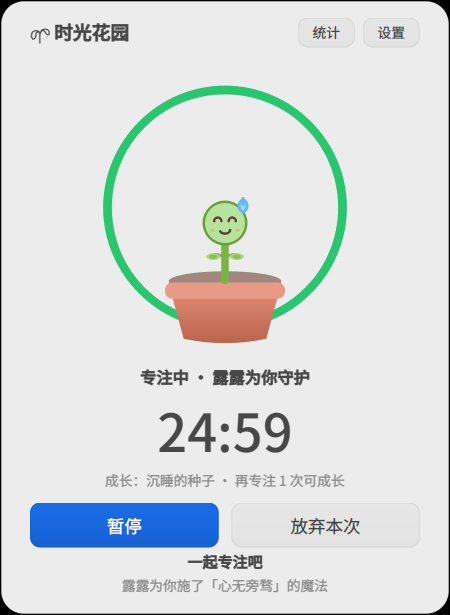
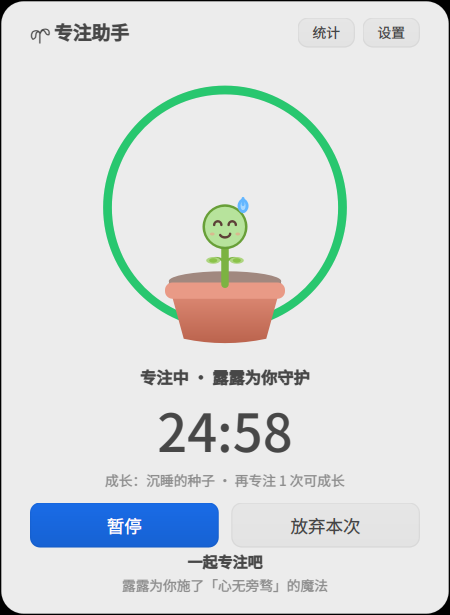
rename project to 专注助手 Focus Assistant (focus-assistant)
- 全局更名：中文名 时光花园→专注助手，英文 Focus Garden→Focus Assistant
- 标识/产物：focus-garden→focus-assistant（工程、二进制、desktop、图标、deb、QSettings 路径）
- 保留植物「露露」作为助手形象
- 按新名称重新构建、截图（5 张）、打包并验证安装/卸载

Changed region(s): [[0.4356, 0.3089, 0.56, 0.4325], [0.1244, 0.0309, 0.3111, 0.0927], [0.5911, 0.6797, 0.6533, 0.7415]]

diff --git a/src/mainwindow.cpp b/src/mainwindow.cpp
@@ -35,10 +35,10 @@ MainWindow::MainWindow(FocusManager *mgr, SystemLinker *linker, QWidget *parent)
     : QWidget(parent)
     , m_mgr(mgr)
     , m_linker(linker)
-    , m_prefs(QStringLiteral("focus-garden"), QStringLiteral("focus-garden"))
+    , m_prefs(QStringLiteral("focus-assistant"), QStringLiteral("focus-assistant"))
 {
-    setWindowTitle(QStringLiteral("时光花园 Focus Garden"));
-    setWindowIcon(QIcon(QStringLiteral(":/icons/focus-garden.svg")));
+    setWindowTitle(QStringLiteral("专注助手 Focus Assistant"));
+    setWindowIcon(QIcon(QStringLiteral(":/icons/focus-assistant.svg")));
     setAttribute(Qt::WA_TranslucentBackground);
     setWindowFlags(Qt::Window | Qt::FramelessWindowHint);
     setFixedWidth(360);
@@ -94,7 +94,7 @@ void MainWindow::buildUi()
 
     // ---- 顶栏 ----
     auto *head = new QHBoxLayout;
-    auto *title = new QLabel(QStringLiteral("🌱 时光花园"), this);
+    auto *title = new QLabel(QStringLiteral("🌱 专注助手"), this);
     QFont tf = font();
     tf.setPixelSize(15);
     tf.setBold(true);
@@ -189,8 +189,8 @@ void MainWindow::buildTray()
     if (!QSystemTrayIcon::isSystemTrayAvailable())
         return;
     m_tray = new QSystemTrayIcon(this);
-    m_tray->setIcon(QIcon(QStringLiteral(":/icons/focus-garden.svg")));
-    m_tray->setToolTip(QStringLiteral("时光花园 Focus Garden"));
+    m_tray->setIcon(QIcon(QStringLiteral(":/icons/focus-assistant.svg")));
+    m_tray->setToolTip(QStringLiteral("专注助手 Focus Assistant"));
 
     m_trayMenu = new QMenu(this);
     m_trayToggle = m_trayMenu->addAction(QStringLiteral("隐藏到托盘"));
@@ -255,7 +255,7 @@ void MainWindow::closeEvent(QCloseEvent *e)
         hide();
         if (m_prefs.value(QStringLiteral("window/firstHide"), true).toBool()) {
             m_prefs.setValue(QStringLiteral("window/firstHide"), false);
-            m_tray->showMessage(QStringLiteral("时光花园"),
+            m_tray->showMessage(QStringLiteral("专注助手"),
                                 QStringLiteral("露露会继续在托盘里陪你，右键托盘图标可以退出"),
                                 QSystemTrayIcon::Information, 4000);
         }
@@ -553,7 +553,7 @@ void MainWindow::showStats()
 void MainWindow::openSettings()
 {
     QDialog dlg(this);
-    dlg.setWindowTitle(QStringLiteral("时光花园 · 设置"));
+    dlg.setWindowTitle(QStringLiteral("专注助手 · 设置"));
     dlg.setFixedWidth(420);
 
     auto *form = new QFormLayout(&dlg);

diff --git a/src/systemlinker.cpp b/src/systemlinker.cpp
@@ -20,12 +20,12 @@ bool SystemLinker::readProperty(const QString &iface, const QString &prop, QVari
 {
     QDBusInterface dbus(kDisplayService, kDisplayPath, kDisplayIface, QDBusConnection::sessionBus());
     if (!dbus.isValid()) {
-        qWarning() << "[FocusGarden] Display1 not available";
+        qWarning() << "[FocusAssistant] Display1 not available";
         return false;
     }
     const QVariant v = dbus.property(prop.toLatin1());
     if (!v.isValid()) {
-        qWarning() << "[FocusGarden] read property failed:" << prop;
+        qWarning() << "[FocusAssistant] read property failed:" << prop;
         return false;
     }
     *out = v;
@@ -86,9 +86,9 @@ void SystemLinker::notify(const QString &title, const QString &body, int timeout
         QStringLiteral("org.freedesktop.Notifications"),
         QStringLiteral("Notify"));
     QVariantList args;
-    args << QStringLiteral("focus-garden")          // app_name
+    args << QStringLiteral("focus-assistant")          // app_name
          << QVariant(0U)                            // replaces_id
-         << QStringLiteral("focus-garden")          // app_icon
+         << QStringLiteral("focus-assistant")          // app_icon
          << title
          << body
          << QStringList()                           // actions

diff --git a/src/main.cpp b/src/main.cpp
@@ -12,15 +12,15 @@ DWIDGET_USE_NAMESPACE
 int main(int argc, char *argv[])
 {
     DApplication app(argc, argv);
-    app.setOrganizationName(QStringLiteral("focus-garden"));
-    app.setApplicationName(QStringLiteral("focus-garden"));
-    app.setApplicationDisplayName(QStringLiteral("时光花园"));
+    app.setOrganizationName(QStringLiteral("focus-assistant"));
+    app.setApplicationName(QStringLiteral("focus-assistant"));
+    app.setApplicationDisplayName(QStringLiteral("专注助手"));
     app.setApplicationVersion(QStringLiteral("1.0.0"));
-    app.setWindowIcon(QIcon(QStringLiteral(":/icons/focus-garden.svg")));
+    app.setWindowIcon(QIcon(QStringLiteral(":/icons/focus-assistant.svg")));
     app.setQuitOnLastWindowClosed(false); // 主界面隐藏到托盘后保持运行
 
     QCommandLineParser parser;
-    parser.setApplicationDescription(QStringLiteral("Focus Garden - a plant that grows with your focus"));
+    parser.setApplicationDescription(QStringLiteral("Focus Assistant - a plant that grows with your focus"));
     parser.addHelpOption();
     parser.addVersionOption();
     parser.process(app);

diff --git a/src/focusmanager.cpp b/src/focusmanager.cpp
@@ -5,7 +5,7 @@ static const int kStageThresholdMinutes[4] = { 0, 15, 60, 200 }; // 成长阶段
 
 FocusManager::FocusManager(QObject *parent)
     : QObject(parent)
-    , m_settings(QStringLiteral("focus-garden"), QStringLiteral("focus-garden"))
+    , m_settings(QStringLiteral("focus-assistant"), QStringLiteral("focus-assistant"))
 {
     m_secondTimer.setInterval(1000);
     connect(&m_secondTimer, &QTimer::timeout, this, &FocusManager::onSecond);

diff --git a/src/statsdialog.cpp b/src/statsdialog.cpp
@@ -83,7 +83,7 @@ StatsDialog::StatsDialog(FocusManager *mgr, QWidget *parent)
     : QDialog(parent)
     , m_mgr(mgr)
 {
-    setWindowTitle(QStringLiteral("时光花园 · 成长记录"));
+    setWindowTitle(QStringLiteral("专注助手 · 成长记录"));
     setFixedWidth(470);
     setMinimumHeight(340);
 

diff --git a/README.md b/README.md
@@ -1,6 +1,6 @@
-# 🌱 时光花园 Focus Garden
+# 🌱 专注助手 Focus Assistant
 
-> 一棵住在你桌面角落、**随你的专注而成长**的陪伴型番茄钟。
+> 一棵住在你桌面角落、**随你的专注而成长**的小植物「露露」——你的桌面专注助手。
 
 **deepin Skills 开发大赛参赛作品** · 方向三：DTK 原生应用（`dtk-development`）
 基于 deepin 25 / UOS v25，DTK6 + Qt6（C++/Qt Widgets），纯矢量自绘无外部素材。
@@ -21,7 +21,7 @@
 - **低打扰常驻**：无边框毛玻璃小窗 + 系统托盘；按住露露即可拖动窗口，
   双击露露快速开始/暂停；关闭窗口收进托盘继续守护。
 - **本地优先**：所有统计（今日/最近 7 天/累计专注、完成次数、成长阶段）
-  保存在 `~/.config/focus-garden/`，无任何联网与隐私收集。
+  保存在 `~/.config/focus-assistant/`，无任何联网与隐私收集。
 
 ![focus](docs/screenshots/02-focus.png)
 
@@ -51,8 +51,8 @@
 sudo apt install build-essential cmake ninja-build git \
   qt6-base-dev qt6-declarative-dev libdtk6widget-dev libdtk6core-dev libdtk6gui-dev
 
-git clone <repo-url> focus-garden
-cd focus-garden
+git clone <repo-url> focus-assistant
+cd focus-assistant
 cmake -B build -G Ninja -DCMAKE_BUILD_TYPE=Release
 ninja -C build
 ```
@@ -66,10 +66,10 @@ sudo ninja -C build install        # 卸载: sudo ninja -C build uninstall
 # 方式二：生成并安装 .deb（推荐，便于干净卸载）
 cmake -B build -G Ninja -DCMAKE_INSTALL_PREFIX=/usr
 cpack -G DEB -C Release --config build/CPackConfig.cmake
-sudo apt install ./focus-garden-1.0.0-amd64.deb   # 卸载: sudo apt remove focus-garden
+sudo apt install ./focus-assistant-1.0.0-amd64.deb   # 卸载: sudo apt remove focus-assistant
 ```
 
-安装后可在启动器搜索 **时光花园 / Focus Garden** 启动。
+安装后可在启动器搜索 **专注助手 / Focus Assistant** 启动。
 
 ## 🎮 使用
 

diff --git a/docs/dev-notes.md b/docs/dev-notes.md
@@ -1,7 +1,7 @@
-# 开发过程说明 · 时光花园 Focus Garden
+# 开发过程说明 · 专注助手 Focus Assistant
 
 > deepin Skills 开发大赛（10 亿 Token 奖池）· 方向三：DTK 原生应用
-> 作品名：时光花园 Focus Garden（focus-garden） · License: GPL-3.0
+> 作品名：专注助手 Focus Assistant（focus-assistant） · License: GPL-3.0
 
 ## 一、用到的 Skill
 
